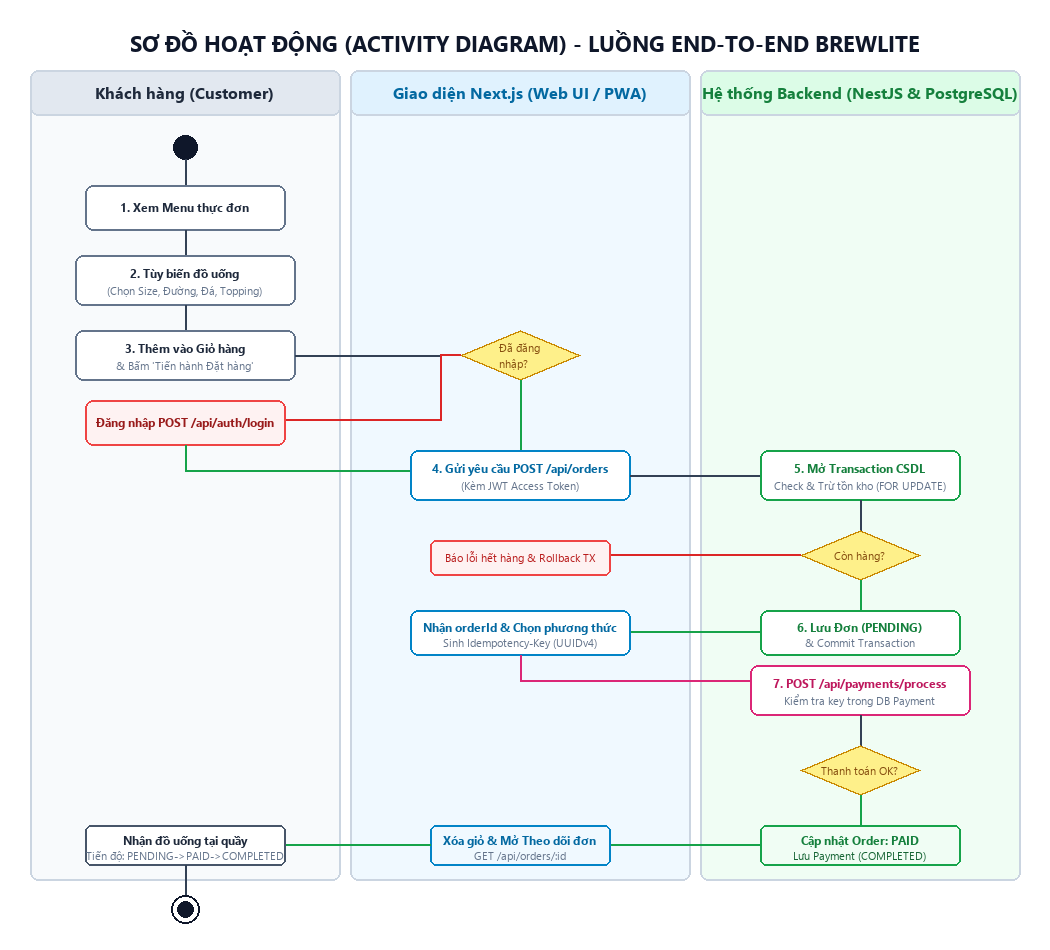
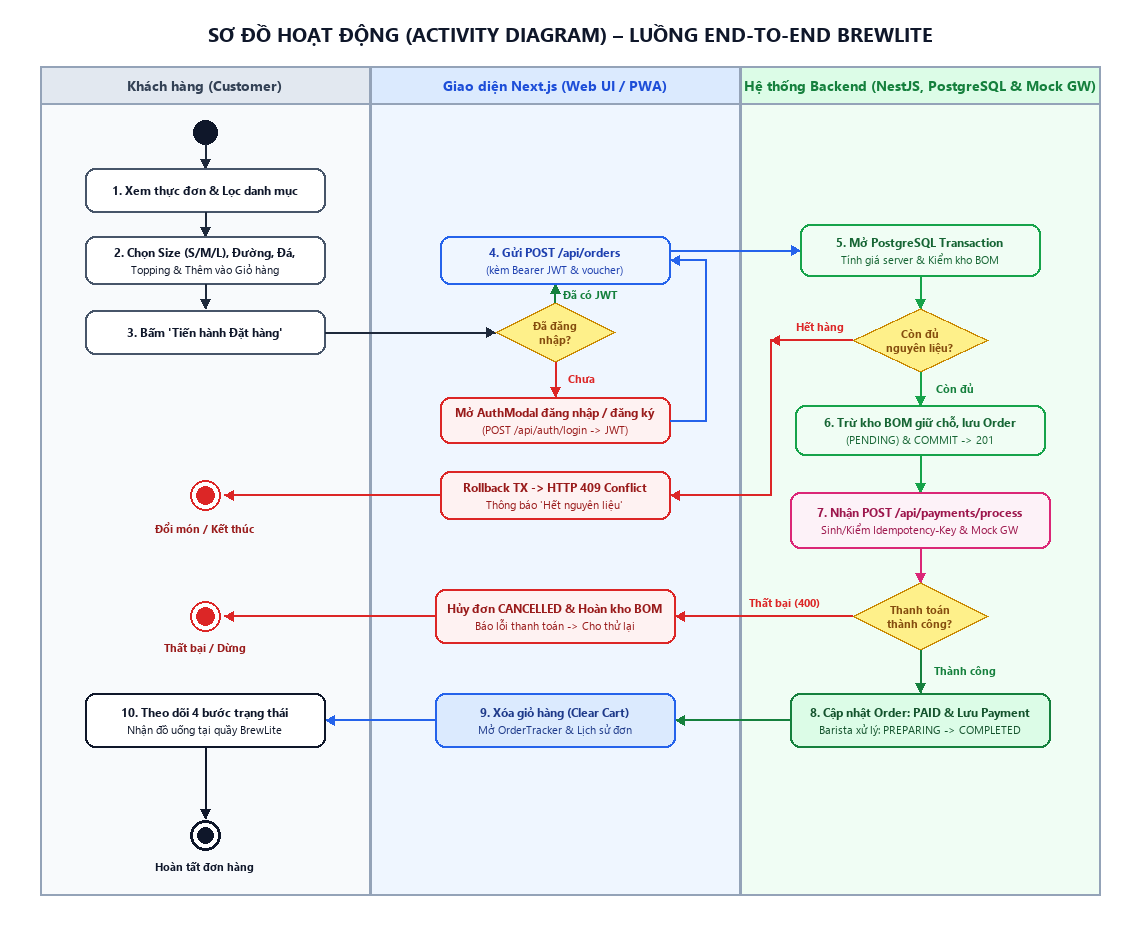
docs: sync Vercel URL (brewlite-web-fawn), Barista KDS FR-11, and regenerated UML diagrams

diff --git a/docs/traceability-matrix.md b/docs/traceability-matrix.md
@@ -16,6 +16,7 @@ Bảng ma trận truy vết thể hiện sự liên kết chặt chẽ và nhấ
 | **FR-08** | US-06: Xem lịch sử đơn hàng đã đặt | `class-diagram.puml` (`User` - `Order`) | API: `GET /api/orders/my-orders` (`/api/orders/me`)<br>UI: `OrderHistoryModal.tsx`, `Navbar.tsx` | **API-T03:** `orders.service.spec.ts` & `orders-payments.integration.spec.ts` (truy vấn đơn hàng theo `userId`) |
 | **FR-09** | US-07: Áp dụng mã giảm giá | `class-diagram.puml` (`Promotion`) | Service: `orders.service.ts` (voucher `SGUFREE`)<br>UI: `CartDrawer.tsx`, `CheckoutModal.tsx` | **UNIT-T01:** `orders.service.spec.ts` (test trừ 15.000đ voucher `SGUFREE`) |
 | **FR-10** | US-08: Tích điểm thành viên | `class-diagram.puml` (`LoyaltyTransaction`) | Schema: `apps/api/prisma/schema.prisma` (`LoyaltyTransaction`) | **DOC-T01:** Mô hình dữ liệu đã sẵn sàng; bảo lưu triển khai ở phiên bản mở rộng (Won't MVP) |
+| **FR-11** | UC-07: Quản lý đơn & kho nguyên liệu (Barista KDS) | `usecase-overview.puml`, `class-diagram.puml` (`Ingredient`) | API: `GET /api/orders`, `PATCH /api/orders/:id/status`, `RolesGuard`<br>UI: `apps/web/src/app/barista/page.tsx` | **INT-T04:** `orders.service.spec.ts` & `orders-payments.integration.spec.ts` (`BARISTA RBAC`: 403 Customer, 200 Barista, hoàn kho khi hủy) |
 
 ---
 

diff --git a/docs/requirements/srs.md b/docs/requirements/srs.md
@@ -14,6 +14,7 @@
 | **FR-08** | Xem lịch sử đơn hàng cá nhân | Lịch sử | **Should** | **Given** người dùng đã đăng nhập, **When** vào mục "Đơn hàng của tôi", **Then** danh sách các đơn đã đặt được liệt kê theo thứ tự thời gian giảm dần với trạng thái rõ ràng. |
 | **FR-09** | Áp dụng mã khuyến mãi (Promotion) | Khuyến mãi | **Could** | **Given** người dùng nhập mã voucher hợp lệ tại giỏ hàng, **When** hệ thống xác thực điều kiện áp dụng, **Then** giảm trực tiếp số tiền chiết khấu vào tổng thanh toán. |
 | **FR-10** | Tích điểm thành viên (Loyalty) | Khách hàng thân thiết | **Won't** (MVP) | Hệ thống tích lũy điểm thưởng tương ứng 5% giá trị đơn hàng sau khi hoàn tất. *(Bảo lưu triển khai ở giai đoạn mở rộng)* |
+| **FR-11** | Quản lý đơn hàng & kho nguyên liệu (Barista KDS) | Quầy pha chế | **Must** | **Given** nhân viên đăng nhập bằng tài khoản vai trò `BARISTA`/`MANAGER`, **When** truy cập `/barista`, **Then** xem được toàn bộ đơn hàng, chuyển trạng thái pha chế (`PENDING -> PAID -> PREPARING -> COMPLETED`), hủy đơn hoàn nguyên liệu và xem tồn kho nguyên liệu BOM; tài khoản `CUSTOMER` bị chặn `HTTP 403`. |
 
 ---
 

diff --git a/docs/deployment.md b/docs/deployment.md
@@ -9,7 +9,7 @@ Hệ thống BrewLite được thiết kế phân tách rõ ràng 3 vùng môi t
 
 | Thành phần | Môi trường Local Dev | Môi trường CI (GitHub Actions) | Môi trường Production (Cloud PaaS) |
 | :--- | :--- | :--- | :--- |
-| **Frontend Web** | Next.js Dev/Docker (`localhost:3000`) | Lint, Unit Test & Next.js Build | Vercel Edge (`https://brewlite-web.vercel.app`) |
+| **Frontend Web** | Next.js Dev/Docker (`localhost:3000`) | Lint, Unit Test & Next.js Build | Vercel Edge (`https://brewlite-web-fawn.vercel.app`, gồm `/` và `/barista`) |
 | **Backend API** | NestJS Dev/Docker (`localhost:5000`) | Lint, Unit, Integration & E2E Test | Render Web Service (`https://api-brewlite.onrender.com/api`) |
 | **Health Check** | `http://localhost:5000/health` | Integration & E2E Assertion | `https://api-brewlite.onrender.com/health` |
 | **Cơ sở dữ liệu** | PostgreSQL 16 (`localhost:5433 -> 5432`) | PostgreSQL 16 Service Container | Managed PostgreSQL 16 (Private VPC, không public) |

diff --git a/README.md b/README.md
@@ -8,7 +8,9 @@ Hệ thống đặt đồ uống tinh gọn theo luồng:
 
 ## Liên kết chính
 - **Repository:** https://github.com/thanhkhoa087/brewlite-1
-- **Frontend Production (HTTPS):** https://brewlite-web.vercel.app
+- **Release v1.0.0:** https://github.com/thanhkhoa087/brewlite-1/releases/tag/v1.0.0
+- **Frontend Production (HTTPS):** https://brewlite-web-fawn.vercel.app
+- **Trang Quầy Barista KDS:** https://brewlite-web-fawn.vercel.app/barista (`barista@brewlite.vn` / `Barista@123`)
 - **Backend API Production:** https://api-brewlite.onrender.com/api
 - **Health Check:** https://api-brewlite.onrender.com/health
 
